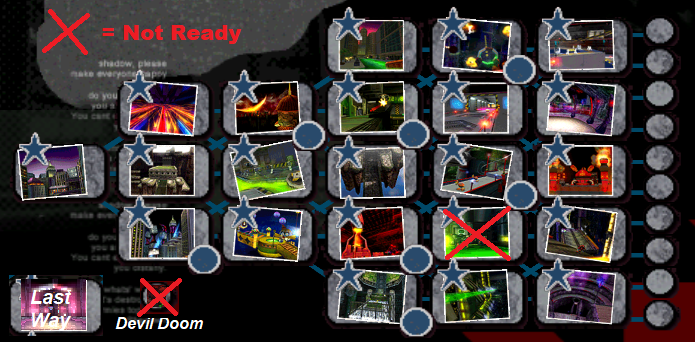
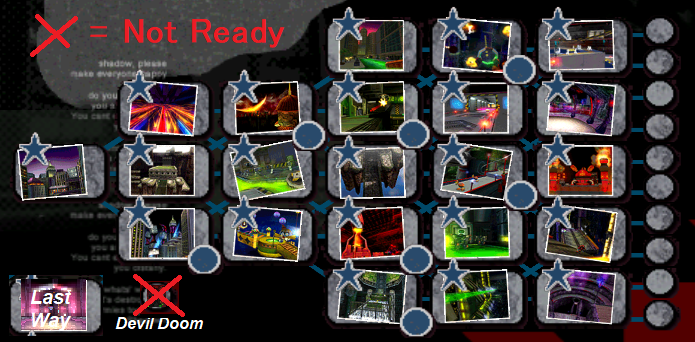
Space Gadget marked as playable

diff --git a/README.md b/README.md
@@ -19,10 +19,9 @@ High Priority:
 * Coaster/Pulley/Ziplines Fix v2 (Circus Park does not work in v1) [WIP]
 
 Normal Priority:
-* Space Gadget Gravity Switchers fixed [WIP / POC->Done, further issues identified / DonutStopGaming Task]
+* Space Gadget Gravity Switchers fixed [v1.9 DONE; v2 WIP]
 * Bosses should attack closest player [PARTIAL / All Bosses except Egg Dealer]
 * Fix the case where if P1 is in a Vehicle and P2 attempts to use a CarTypeVehicle, P1 will have control of P2
-* WeaponsTargeting & HomingAttack Other Player Enable/Disable
 
 #### Completed for 2.0
 * Verify 1:1 misc bytes for level edits per HPP v0.7.6+
@@ -43,7 +42,6 @@ Normal Priority:
 
 ## Problems
 * Checkpoint Warp Menu only P1 controls Checkpoint UI
-* Gravity switches on Space Gadget only alter P1's gravity
 * "Air bug" (occasionally P1 or P2 will be stuck in the floating state until hurt when activating a wind tunnel) - Break out with Chaos Blast or move back to the source of the wind
 * Turrets alter P1's camera if P2 uses it
 * SuperShadow only activates for P1
@@ -75,6 +73,7 @@ Normal Priority:
 * Independent Warping/Backtracking via Checkpoints* (No independent UI yet)
 * Coasters / Ziplines / Pulleys (e.g. hang-rail in Circus Park) activate on correct player* (some are disabled)
 * Bosses (with the exception of Egg Dealer) will attack closest player
+* Gravity Switchers on Space Gadget alter proper player's gravity
 
 
 ## Other Known Issues (Not planned to be fixed)
@@ -83,13 +82,14 @@ Normal Priority:
 * If ChaosPoints are at 0, Dark/Hero orbs only activate P1's ChaosPowers
 * Rare instance has been recorded where P1 uses a rocket but the rocket never takes off (state issue?)
 * Worm Enemies and AlienShips will only target P1
-* Checkpoint Bonus (Rings, Bubble, Lives) are always 10 rings if P2 activates checkpoint
+* Checkpoint Bonus (Rings, Bubble, Lives) are based off P1's ring count if P2 activates checkpoint
 
 ## Bonus Roadmap
 * Static weapon swaps for Metal Androids
 * Optional BlackKnight style melee replacement
 * Both players required to reach GoalRing for stage complete
 * Physics Rewrite for GUNMech Jumpers [DONE]
+* WeaponsTargeting & HomingAttack Other Player Enable/Disable
 
 ## Dev
 * dreamsyntax
